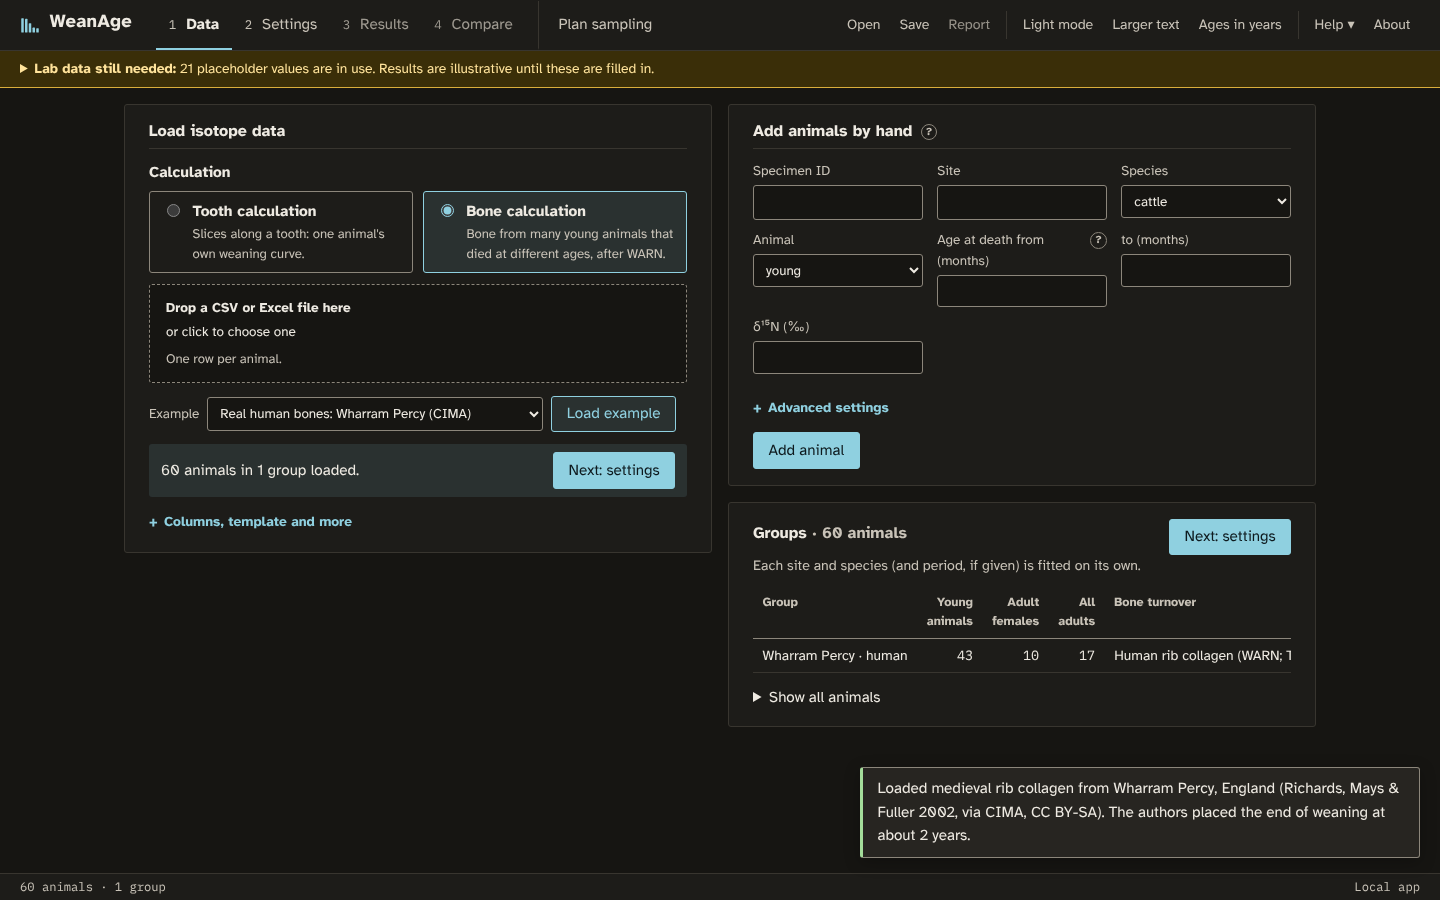
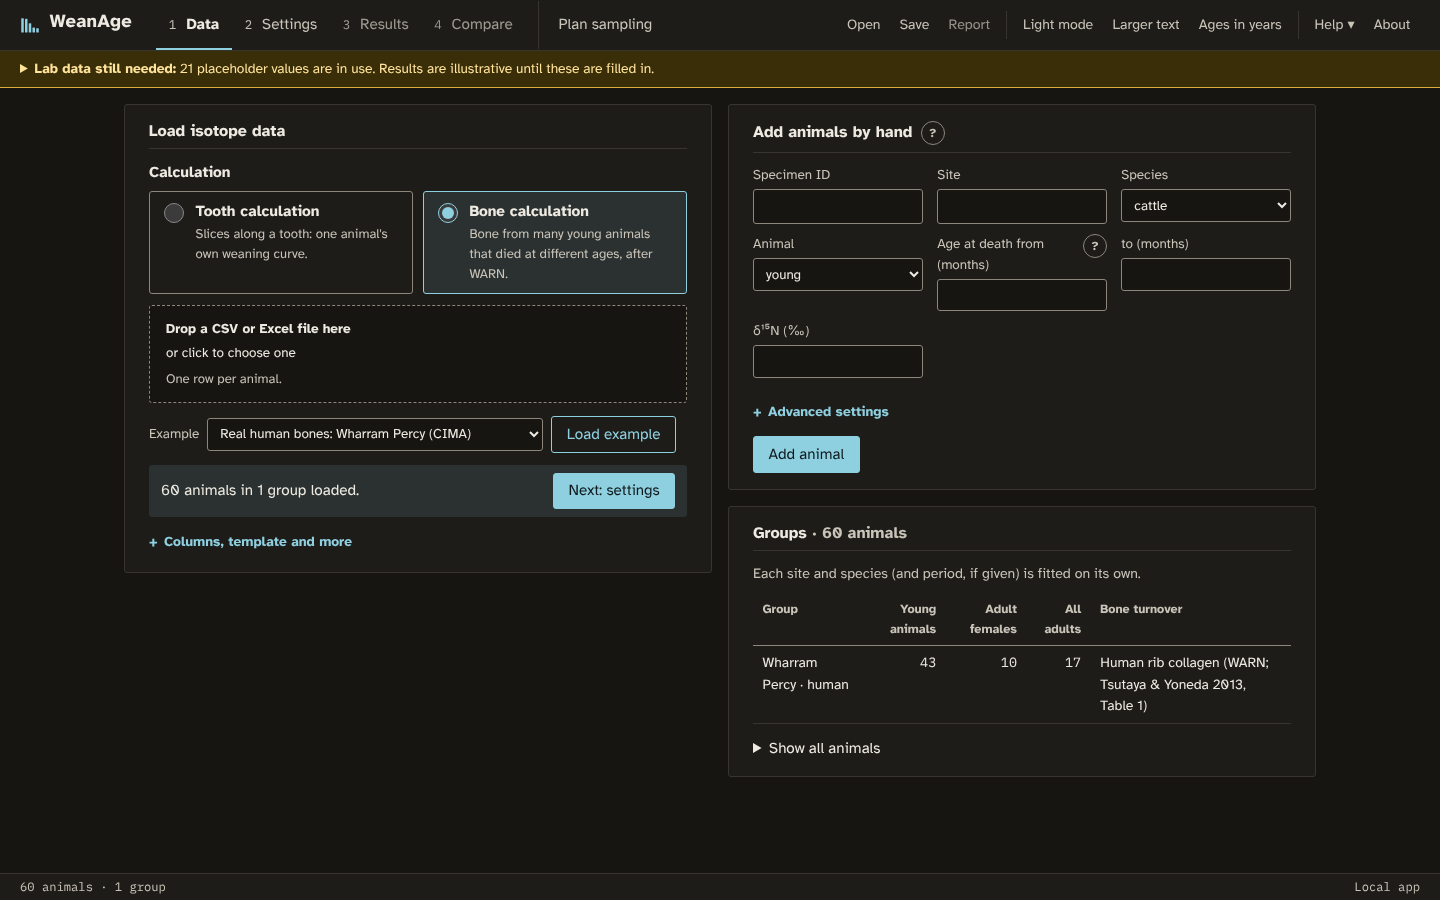
One Next: settings button; WCAG 2.2 AA fixes from an axe-core audit
- The Next: settings buttons in the Specimens and Groups cards are gone;
  the one in the Load isotope data box remains.
- Result lists: list items no longer break the listbox pattern; the
  specimen/group panels are regions, not nested asides.
- Scrollable tables can be focused and scrolled from the keyboard and are
  named for screen readers; the empty column header in the growth-table
  editor is named.
- Help buttons are 24 px and checkboxes and radio buttons larger
  (target size).
- Messages: errors stay until closed (Close button or Escape) and every
  message is announced politely; the placeholder banner and messages sit
  in labelled regions.
- Chart zoom can be set by typing an age range (no dragging needed).
- Focused fields are kept clear of the sticky header, Run bar and status
  line; on narrow or short windows the header no longer sticks.
- No sideways page scrolling at 320 px wide (example menu and grouping
  checkboxes wrap; visually hidden text no longer widens the page).

axe-core finds no remaining violations except one target-size report for an
input that sits under the fixed status line only when every section is
expanded at once.

Claude-Session: https://claude.ai/code/session_01GCuU3E7cAZ7NZNFGNqPLTN

diff --git a/src/weanage/web/styles.css b/src/weanage/web/styles.css
@@ -35,6 +35,7 @@
 
 /* Basics */
 * { box-sizing: border-box; }
+html { scroll-padding: 4.5rem 0 5rem; } /* focused fields are not hidden under the sticky header, Run bar or status line */
 [hidden] { display: none !important; }
 body { margin: 0; font: 0.95rem/1.55 var(--sans); background: var(--bg); color: var(--text); padding-bottom: 2.2rem; }
 h1, h2, h3 { margin: 0 0 .5rem; line-height: 1.25; font-weight: 700; }
@@ -112,9 +113,10 @@ input[type="number"] { font-family: var(--mono); font-size: .9em; }
 input.invalid { border-color: var(--error); box-shadow: 0 0 0 1px var(--error); }
 label { display: flex; flex-direction: column; gap: .2rem; font-size: .84rem; color: var(--muted); }
 label.check { flex-direction: row; align-items: center; gap: .45rem; color: var(--text); }
-label.check input { width: auto; accent-color: var(--accent); }
+label.check input, .calc-option input { width: 20px; height: 20px; margin: 2px; flex: none; accent-color: var(--accent); }
 label.inline { flex-direction: row; align-items: center; gap: .5rem; }
-label.inline select { width: auto; }
+label.inline { min-width: 0; max-width: 100%; }
+label.inline select { width: auto; min-width: 0; max-width: 100%; flex: 1; }
 /* A field label with a "?": the text and the "?" share the first line, the input spans the full width. */
 label:has(> [data-helpslot]) { display: grid; grid-template-columns: 1fr auto; align-items: start; column-gap: .4rem; }
 label:has(> [data-helpslot]) > :is(input, select, textarea, .tbd-badge) { grid-column: 1 / -1; }
@@ -123,7 +125,7 @@ label.check:has(> [data-helpslot]) { display: flex; }
 button.link { background: none; border: 0; padding: 0; color: var(--accent); text-decoration: underline; text-underline-offset: 2px; font: inherit; display: inline; }
 .form-grid { display: grid; grid-template-columns: repeat(auto-fill, minmax(160px, 1fr)); gap: .6rem .9rem; }
 .form-actions { grid-column: 1 / -1; display: flex; align-items: center; gap: .75rem; }
-fieldset.inline { border: 0; padding: 0; margin: 0; display: flex; gap: .8rem; align-items: center; }
+fieldset.inline { border: 0; padding: 0; margin: 0; display: flex; flex-wrap: wrap; gap: .4rem .8rem; align-items: center; }
 fieldset.inline legend { float: left; margin-right: .5rem; font-size: .84rem; color: var(--muted); }
 .controls { margin-bottom: 1rem; align-items: flex-end; }
 .controls label:not(.check):not(.inline) { min-width: 200px; }
@@ -139,7 +141,7 @@ fieldset.inline legend { float: left; margin-right: .5rem; font-size: .84rem; co
 .inline-msg.ok { color: var(--ok); }
 
 /* Tables */
-.table-wrap { overflow-x: auto; }
+.table-wrap { overflow-x: auto; position: relative; }
 .table-wrap.tall { max-height: 420px; overflow-y: auto; }
 table { border-collapse: collapse; width: 100%; font-size: .87rem; }
 th, td { text-align: left; padding: .38rem .6rem; border-bottom: 1px solid var(--rule); vertical-align: top; }
@@ -163,6 +165,8 @@ summary { cursor: pointer; }
 .pill.best { font: 700 .68rem var(--sans); text-transform: uppercase; letter-spacing: .05em; color: var(--accent); margin-left: .35rem; }
 .toast { position: fixed; bottom: 2.6rem; right: 1.25rem; max-width: min(92vw, 560px); padding: .6rem .9rem .6rem .9rem; border-radius: var(--radius); color: var(--text); background: var(--raised); border: 1px solid var(--border); border-left: 3px solid var(--error); z-index: 70; box-shadow: 0 4px 16px rgb(0 0 0 / .25); }
 .toast.ok { border-left-color: var(--ok); }
+.toast { display: flex; gap: .8rem; align-items: flex-start; }
+.zoom-form input { width: 6.5rem; }
 .info-banner { display: flex; gap: .75rem; align-items: center; flex-wrap: wrap; padding: .5rem 1.25rem; font-size: .88rem; background: var(--raised); border-bottom: 1px solid var(--rule); }
 
 /* Status line at the bottom of the window */
@@ -225,7 +229,7 @@ label.tbd { padding: .3rem .4rem; border-radius: var(--radius); color: var(--tbd
 .calc-choice { display: grid; grid-template-columns: repeat(auto-fit, minmax(14rem, 1fr)); gap: .6rem; border: 0; padding: 0; margin: 0 0 .7rem; }
 .calc-choice legend { font-weight: 700; margin-bottom: .4rem; padding: 0; }
 .calc-option { display: flex; flex-direction: row; gap: .6rem; align-items: flex-start; padding: .5rem .75rem; border: 1px solid var(--border); border-radius: var(--radius); cursor: pointer; }
-.calc-option input { width: auto; flex: none; margin-top: .25rem; accent-color: var(--accent); }
+.calc-option input { margin-top: .2rem; }
 .calc-option strong { color: var(--text); font-size: .95rem; }
 .calc-option small { display: block; color: var(--muted); }
 .calc-option:has(input:checked) { border-color: var(--accent); background: var(--tint); }
@@ -283,7 +287,7 @@ dl.terms dt:first-child { margin-top: 0; }
 dl.terms dd { margin: .1rem 0 0; font-size: .9rem; }
 
 /* Help, guided tour and accessibility */
-.help-btn { display: inline-grid; place-items: center; width: 1.05rem; height: 1.05rem; padding: 0; border-radius: 50%; font: 700 .66rem/1 var(--sans); background: transparent; color: var(--muted); border: 1px solid var(--border); vertical-align: middle; margin-left: .2rem; }
+.help-btn { display: inline-grid; place-items: center; width: 24px; height: 24px; padding: 0; border-radius: 50%; font: 700 .75rem/1 var(--sans); background: transparent; color: var(--muted); border: 1px solid var(--border); vertical-align: middle; margin-left: .2rem; }
 .help-btn:hover { color: var(--accent); border-color: var(--accent); }
 .help-pop, .tour-card { background: var(--raised); color: var(--text); border: 1px solid var(--border); border-radius: var(--radius); padding: .75rem .9rem; box-shadow: 0 6px 20px rgb(0 0 0 / .25); }
 .help-pop { position: absolute; z-index: 60; width: min(320px, 90vw); font-size: .86rem; }
@@ -291,14 +295,16 @@ dl.terms dd { margin: .1rem 0 0; font-size: .9rem; }
 .tour-ring { position: fixed; border-radius: var(--radius); box-shadow: 0 0 0 9999px rgb(0 0 0 / .55); outline: 2px solid var(--focus); pointer-events: none; transition: all .2s; }
 .tour-card { position: fixed; width: min(360px, 92vw); }
 .tour-card h3 { margin-top: 0; color: var(--text); }
-.sr-only { position: absolute; width: 1px; height: 1px; overflow: hidden; clip: rect(0 0 0 0); white-space: nowrap; }
+.sr-only { position: absolute; width: 1px; height: 1px; margin: -1px; padding: 0; border: 0; overflow: hidden; clip-path: inset(50%); white-space: nowrap; }
 .skip-link { position: absolute; left: -999px; top: .5rem; z-index: 100; background: var(--card); padding: .5rem .8rem; border-radius: var(--radius); }
 .skip-link:focus { left: .5rem; }
 :focus-visible { outline: 2px solid var(--focus); outline-offset: 2px; }
 main:focus { outline: none; }
 @media (prefers-reduced-motion: reduce) { * { transition: none !important; } }
-@media (max-width: 720px) {
-  .topbar { gap: 0; }
+@media (max-width: 720px), (max-height: 500px) {
+  .topbar { gap: 0; position: static; } /* a wrapped header would cover much of a small screen */
+  .run-bar { position: static; }
+  html { scroll-padding: 0 0 3rem; }
   .actions { margin-left: 0; }
   .step { padding: .6rem .55rem; }
 }
@@ -337,7 +343,7 @@ details.advanced > summary.warn-text { color: var(--warn); }
 .column > .card:last-child { margin-bottom: 0; }
 #res-chart svg.chart, #bone-res-chart svg.chart { max-height: max(260px, calc(100vh - 612px)); }
 details:not([open]) > :not(summary) { display: none; }
-#specimen-table td, #bone-group-table td { white-space: nowrap; }
+#specimen-table td { white-space: nowrap; }
 .card h2 small { font-weight: 400; font-size: .8rem; margin-left: .4rem; }
 .baseline-block.tbd { padding: .5rem .7rem; border-radius: var(--radius); }
 

diff --git a/src/weanage/web/index.html b/src/weanage/web/index.html
@@ -54,11 +54,13 @@
   <p id="engine-status" class="engine-status" role="status" hidden></p>
 
   <!-- Highlighted list of every value still waiting on lab work (TBD-LAB). -->
-  <details id="tbd-banner" class="tbd-banner" hidden>
-    <summary><strong>Lab data still needed:</strong> <span id="tbd-count"></span> in use.
-      Results are illustrative until these are filled in.</summary>
-    <ul id="tbd-list"></ul>
-  </details>
+  <section aria-label="Lab data still needed">
+    <details id="tbd-banner" class="tbd-banner" hidden>
+      <summary><strong>Lab data still needed:</strong> <span id="tbd-count"></span> in use.
+        Results are illustrative until these are filled in.</summary>
+      <ul id="tbd-list"></ul>
+    </details>
+  </section>
   <div id="restore-banner" class="info-banner" hidden role="region" aria-label="Restore previous work">
     <span>Your previous session (<span id="restore-when"></span>) was saved in this browser.</span>
     <button id="btn-restore" class="tiny">Restore it</button>
@@ -206,10 +208,7 @@
             </form>
           </article>
           <article class="card" id="bone-groups-card" data-mode="bone" hidden>
-            <div class="row between">
-              <h2>Groups <span id="bone-count" class="muted"></span></h2>
-              <button id="btn-bone-to-settings">Next: settings</button>
-            </div>
+            <h2>Groups <span id="bone-count" class="muted"></span></h2>
             <p class="hint">Each site and species (and period, if given) is fitted on its own.</p>
             <div class="table-wrap"><table id="bone-group-table"></table></div>
             <details class="samples-details">
@@ -218,10 +217,7 @@
             </details>
           </article>
           <article class="card" id="specimens-card" hidden>
-            <div class="row between">
-              <h2>Specimens <span id="sample-count" class="muted"></span></h2>
-              <button id="btn-to-settings">Next: settings</button>
-            </div>
+            <h2>Specimens <span id="sample-count" class="muted"></span></h2>
             <div class="table-wrap"><table id="specimen-table"></table></div>
             <details class="samples-details">
               <summary>Show all samples</summary>
@@ -428,10 +424,10 @@
     <section id="view-results" class="view" aria-labelledby="h-results">
       <h2 id="h-results" class="sr-only">Results</h2>
       <div class="results-layout">
-        <aside class="card specimen-list" aria-label="Specimens">
-          <h2>Specimens</h2>
+        <section class="card specimen-list" aria-labelledby="h-specimen-list">
+          <h2 id="h-specimen-list">Specimens</h2>
           <ul id="result-list" role="listbox" aria-label="Choose a specimen"></ul>
-        </aside>
+        </section>
         <div class="results-main">
           <article class="card">
             <div class="row between wrap">
@@ -445,8 +441,13 @@
             <div class="row between wrap chart-tools">
               <span class="row gap">
                 <label class="check"><input id="opt-show13c" type="checkbox"> Show δ¹³C</label>
-                <button id="btn-zoom-reset" class="ghost tiny" hidden>Reset zoom</button>
-                <span class="muted small">Drag across the chart to zoom.</span>
+                <form id="zoom-form" class="row gap zoom-form" novalidate>
+                  <label class="inline">Ages from <input id="zoom-from" type="number" step="any" inputmode="decimal"></label>
+                  <label class="inline">to <input id="zoom-to" type="number" step="any" inputmode="decimal"></label>
+                  <button type="submit" class="ghost tiny">Zoom</button>
+                  <button id="btn-zoom-reset" type="button" class="ghost tiny" hidden>Reset zoom</button>
+                </form>
+                <span class="muted small">or drag across the chart.</span>
               </span>
               <span class="row gap export-links">
                 <span class="muted small">Export:</span>
@@ -488,10 +489,10 @@
     <section id="view-bone-results" class="view" aria-labelledby="h-bone-results">
       <h2 id="h-bone-results" class="sr-only">Bone results</h2>
       <div class="results-layout">
-        <aside class="card specimen-list" aria-label="Groups">
-          <h2>Groups</h2>
+        <section class="card specimen-list" aria-labelledby="h-group-list">
+          <h2 id="h-group-list">Groups</h2>
           <ul id="bone-result-list" role="listbox" aria-label="Choose a group"></ul>
-        </aside>
+        </section>
         <div class="results-main">
           <article class="card">
             <h2 id="bone-res-title"></h2>
@@ -801,6 +802,8 @@
     <span id="sb-data">No data loaded</span>
     <span id="sb-mode"></span>
   </footer>
-  <div id="toast" class="toast" role="alert" aria-live="assertive" hidden></div>
+  <div id="toast" class="toast" role="region" aria-label="Message" hidden><span id="toast-text"></span>
+    <button type="button" id="toast-close" class="ghost tiny">Close</button></div>
+  <div id="toast-live" class="sr-only" aria-live="polite"></div>
 </body>
 </html>

diff --git a/src/weanage/web/app.js b/src/weanage/web/app.js
@@ -8,7 +8,7 @@ import { bindGrowthEditor, renderGrowthList } from "./growth.js";
 import { initGlossary, initHelpMenu, startTour, tourSeen } from "./help.js";
 import { initPlanner, renderPlan } from "./planner.js";
 import { buildReport, offscreen } from "./report.js";
-import { $, $$, ageNum, ageText, ageValue, ci, download, esc, getAgeUnit, help, MILESTONES, num, plural, progressBar, pIs, percent, pval, readout, renderIssues, renderReady, renderWarnings, SAID_IN_SUMMARY, setAgeUnit, swatch, table, tbdBadge, toast, toCsv, toUnit, unitShort, unitWord } from "./util.js";
+import { $, $$, ageNum, ageText, ageValue, ci, download, esc, getAgeUnit, help, labelScrollBoxes, MILESTONES, num, plural, progressBar, pIs, percent, pval, readout, renderIssues, renderReady, renderWarnings, SAID_IN_SUMMARY, setAgeUnit, swatch, table, tbdBadge, toast, toCsv, toUnit, unitShort, unitWord } from "./util.js";
 
 const state = {
   config: null, // settings and lists sent by the server
@@ -330,7 +330,7 @@ function renderResults() {
     .map((r) => {
       const age = headline(r, milestone);
       const chosen = r.specimen_id === state.current;
-      return `<li><button role="option" aria-selected="${chosen}" tabindex="${chosen ? 0 : -1}" data-specimen="${esc(r.specimen_id)}" class="${chosen ? "active" : ""}">
+      return `<li role="none"><button role="option" aria-selected="${chosen}" tabindex="${chosen ? 0 : -1}" data-specimen="${esc(r.specimen_id)}" class="${chosen ? "active" : ""}">
         <span><strong>${esc(r.specimen_id)}</strong><small>${esc(r.site)} · ${esc(r.species)} ${esc(r.tooth)}</small></span>
         <span><span class="age">${age ? `${ageValue(age)} ${unitShort()}` : "—"}</span>${warningCount(r) ? `<span class="warn-dot" title="${plural(warningCount(r), "warning")}" aria-label="${plural(warningCount(r), "warning")}">${warningCount(r)}</span>` : ""}</span>
       </button></li>`;
@@ -355,6 +355,7 @@ function renderResults() {
     $("#res-chart").innerHTML = '<p class="muted">No data points to plot.</p>';
   }
   $("#btn-zoom-reset").hidden = !state.zoom;
+  [$("#zoom-from").value, $("#zoom-to").value] = state.zoom ? state.zoom.map((v) => +v.toFixed(2)) : ["", ""];
 
   const warnings = [...res.warnings.filter((w) => !SAID_IN_SUMMARY.test(w)), ...res.fits.flatMap((f) => f.warnings.map((w) => `${f.label}: ${w}`))];
   renderWarnings("#res-warnings-box", "#res-warnings-summary", "#res-warnings", warnings, (w) => (isNote(w) ? "info" : "warning"));
@@ -472,6 +473,7 @@ async function refreshCompare() {
       { label: `Range (${unitWord()})`, cls: "num", render: (r) => `<strong>${ageNum(r.range)}</strong>` },
     ], out.disagreement);
     renderValidation(out.validation);
+    labelScrollBoxes(); // the tables above are new
   } catch (e) {
     toast(e.message);
   }
@@ -629,7 +631,6 @@ async function makeReport() {
 function bind() {
   const on = (selector, event, handler) => $(selector).addEventListener(event, handler);
   for (const b of $$(".step")) b.addEventListener("click", () => show(b.dataset.view));
-  on("#btn-to-settings", "click", () => show("settings"));
   on("#btn-next-settings", "click", () => show("settings"));
 
   const zone = $("#dropzone");
@@ -691,6 +692,16 @@ function bind() {
   });
   on("#opt-show13c", "change", renderResults);
   on("#btn-zoom-reset", "click", () => { state.zoom = null; renderResults(); });
+  // Typing the age range does the same as dragging across the chart, without needing a pointer.
+  on("#zoom-form", "submit", (e) => {
+    e.preventDefault();
+    const [from, to] = [$("#zoom-from").value, $("#zoom-to").value].map(Number);
+    if ($("#zoom-from").value === "" || $("#zoom-to").value === "" || !(from < to)) return toast("Enter two ages, the first smaller than the second.");
+    state.zoom = [from, to];
+    renderResults();
+  });
+  on("#toast-close", "click", () => ($("#toast").hidden = true));
+  document.addEventListener("keydown", (e) => { if (e.key === "Escape" && !$("#toast").hidden && !document.querySelector("dialog[open]")) $("#toast").hidden = true; });
   on("#btn-export-csv", "click", () => download("weanage_estimates.csv", new Blob([toCsv(state.estimates)], { type: "text/csv" })));
   on("#btn-export-json", "click", () => download("weanage_results.json", new Blob([JSON.stringify({ options: state.options, results: state.results }, null, 2)])));
   on("#btn-export-svg", "click", () => {
@@ -791,6 +802,7 @@ async function init() {
   initBonePlanner(state);
   renderTbd();
   for (const slot of $$("[data-helpslot]")) slot.innerHTML = help(slot.dataset.helpslot);
+  labelScrollBoxes();
   initGlossary();
   bind();
   showLook();

diff --git a/src/weanage/web/util.js b/src/weanage/web/util.js
@@ -58,13 +58,30 @@ export const pIs = (p) => (p != null && p < 0.001 ? "p < 0.001" : `p = ${pval(p)
 /** A share as a whole percentage: 0.83 → "83%". */
 export const percent = (x) => (x == null ? "—" : `${Math.round(x * 100)}%`);
 
+/** A message in the corner. Errors stay until closed; other messages close after 10 s. */
 export function toast(message, kind = "error") {
   const t = $("#toast");
-  t.textContent = message;
+  $("#toast-text").textContent = message;
+  $("#toast-live").textContent = ""; // re-announce a repeated message
+  setTimeout(() => ($("#toast-live").textContent = kind === "error" ? `Error: ${message}` : message), 50);
   t.className = `toast ${kind}`;
   t.hidden = false;
   clearTimeout(toast.timer);
-  toast.timer = setTimeout(() => (t.hidden = true), 6000);
+  if (kind !== "error") toast.timer = setTimeout(() => (t.hidden = true), 10000);
+}
+
+/** Scrollable table boxes can be scrolled from the keyboard, and screen readers announce what they hold. */
+export function labelScrollBoxes() {
+  const used = new Map();
+  for (const box of $$(".table-wrap")) {
+    const heading = box.previousElementSibling?.matches("h2, h3") ? box.previousElementSibling
+      : box.closest("details")?.querySelector("summary") || box.closest(".card")?.querySelector("h2, h3");
+    const name = (heading?.textContent || "Table").trim();
+    used.set(name, (used.get(name) || 0) + 1);
+    box.tabIndex = 0;
+    box.setAttribute("role", "region");
+    box.setAttribute("aria-label", `${name}${used.get(name) > 1 ? ` ${used.get(name)}` : ""} (scrollable table)`);
+  }
 }
 
 export function download(name, blob) {
@@ -96,7 +113,7 @@ export function table(el, columns, rows, rowClass = () => "") {
 
 /** Placeholder-table warnings that the result summary already states ("Illustrative only: …"). */
 export const SAID_IN_SUMMARY = /PLACEHOLDER (growth )?table/;
-export const tbdBadge = '<span class="tbd-badge" title="Waiting on lab data; listed at the top of the page">placeholder</span>';
+export const tbdBadge = '<span class="tbd-badge">placeholder<span class="sr-only"> value, waiting on lab data</span></span>';
 
 export function swatch(model) {
   const s = MODEL_STYLE[model] || MODEL_STYLE.average;

diff --git a/src/weanage/web/bone.js b/src/weanage/web/bone.js
@@ -23,7 +23,6 @@ export function initBone(appState, appHooks) {
   hooks = appHooks;
   state.bone = { samples: [], report: null, results: null, options: null, current: null };
   applyBoneSettings(state.config.bone_defaults);
-  $("#btn-bone-to-settings").addEventListener("click", () => hooks.show("settings"));
   $("#bone-form").addEventListener("submit", addAnimalByHand);
   $("#bone-form").elements.who.addEventListener("change", (e) => { // adults need no age at death
     for (const name of ["age_from", "age_to"]) $("#bone-form").elements[name].disabled = e.target.value !== "young";
@@ -235,7 +234,7 @@ export function renderBoneResults() {
     const chosen = r.group === state.bone.current;
     const end = r.estimates?.completion;
     const problems = r.warnings.filter((w) => !isNote(w)).length;
-    return `<li><button role="option" aria-selected="${chosen}" tabindex="${chosen ? 0 : -1}" data-group="${esc(r.group)}" class="${chosen ? "active" : ""}">
+    return `<li role="none"><button role="option" aria-selected="${chosen}" tabindex="${chosen ? 0 : -1}" data-group="${esc(r.group)}" class="${chosen ? "active" : ""}">
       <span><strong>${esc(r.site)}</strong><small>${esc(r.species)}${r.period ? ` · ${esc(r.period)}` : ""} · ${plural(r.n_young, "young animal")}</small></span>
       <span><span class="age">${end ? ageText(end.estimate) : "—"}</span>${problems ? `<span class="warn-dot" aria-label="${plural(problems, "warning")}">${problems}</span>` : ""}</span>
     </button></li>`;

diff --git a/src/weanage/web/growth.js b/src/weanage/web/growth.js
@@ -28,7 +28,7 @@ function card(state, key, open = false) {
       <label>Age at crown initiation (months)<input type="number" step="0.1" class="ovr-init" value="${linear.initiation_age_months}"></label>
       <label>Extension rate (mm / month)<input type="number" step="0.1" min="0.01" class="ovr-rate" value="${linear.extension_rate_mm_per_month}"></label></div>`;
   } else if (t) {
-    body = `<table class="knots-edit"><thead><tr><th scope="col">Position (mm)</th><th scope="col">Age (months)</th><th></th></tr></thead>
+    body = `<table class="knots-edit"><thead><tr><th scope="col">Position (mm)</th><th scope="col">Age (months)</th><th scope="col"><span class="sr-only">Remove</span></th></tr></thead>
         <tbody>${pointRows(t)}</tbody></table>
       <button type="button" class="ghost tiny" data-act="add-point">Add point</button>
       <div class="form-grid">

diff --git a/tests/test_browser.py b/tests/test_browser.py
@@ -89,7 +89,7 @@ def test_whole_workflow(page):
     page.wait_for_selector("#bone-groups-card:not([hidden])")
     assert page.is_hidden("#specimens-card")  # the tooth table does not show under the bone data
     assert "Site A" in page.text_content("#bone-group-table")
-    click(page, "#btn-bone-to-settings")
+    click(page, "#btn-next-settings")
     assert page.evaluate("document.querySelector('#qc-card').closest('section').id") == "view-bone-settings"
     page.click("#view-bone-settings details.advanced > summary")  # the sampler settings are under Advanced
     page.fill("#bone-warmup", "500")

diff --git a/CHANGELOG.md b/CHANGELOG.md
@@ -7,6 +7,12 @@
   part of the calculation works and where it comes from, with references.
 
 ### Changed
+* One Next: settings button, in the Load isotope data box.
+* Accessibility (WCAG 2.2 AA, checked with axe-core on every page in both themes): result lists
+  and scrollable tables work with screen readers and the keyboard; 24 px help buttons and larger
+  checkboxes; error messages stay until closed and are announced; the chart can be zoomed by typing
+  an age range as well as by dragging; focused fields are not hidden under the sticky bars; pages
+  reflow without sideways scrolling at 320 px.
 * Every curve model reports no weaning age when δ¹⁵N falls by less than the minimum (1‰ by
   default) or the fall is centred before birth. The fitted curve is still drawn. The model
   average is given only when the models that report an age hold at least half the support.
